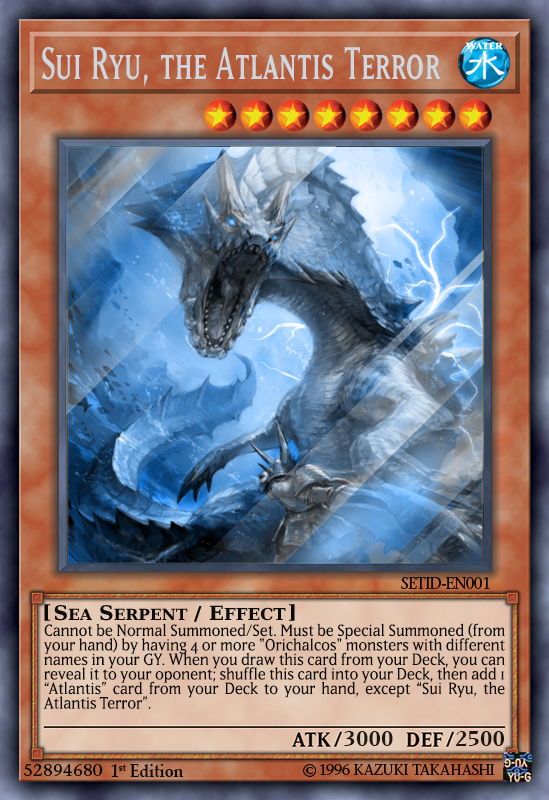
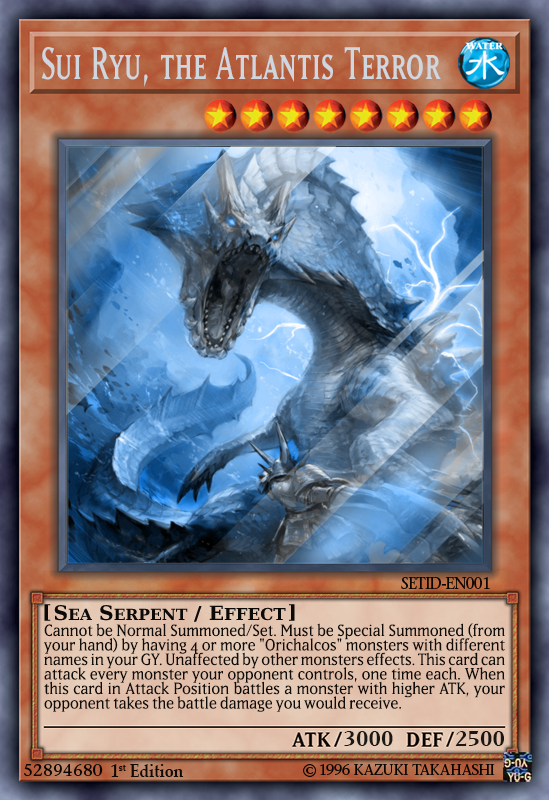
Update

Changed region(s): [[0.0619, 0.8125, 0.929, 0.9062]]

diff --git a/Scripts/cards_db.js b/Scripts/cards_db.js
@@ -1833,7 +1833,7 @@ var CARDS_DB =
             "ATK": 3000,
             "DEF": 2500,
             "Attribute": "WATER",
-            "Effect": "Cannot be Normal Summoned/Set. Must be Special Summoned (from your hand) by having 4 or more \"Orichalcos\" monsters with different names in your GY. When you draw this card from your Deck, you can reveal it to your oponent; shuffle this card into your Deck, then add 1 \"Atlantis\" card from your Deck to your hand, except \"Sui Ryu, the Atlantis Terror\"."
+            "Effect": "Cannot be Normal Summoned/Set. Must be Special Summoned (from your hand) by having 4 or more \"Orichalcos\" monsters with different names in your GY. Unaffected by other monsters effects. This card can attack every monster your opponent controls, one time each. When this card in Attack Position battles a monster with higher ATK, your opponent takes the battle damage you would receive."
         }
     },
     {
